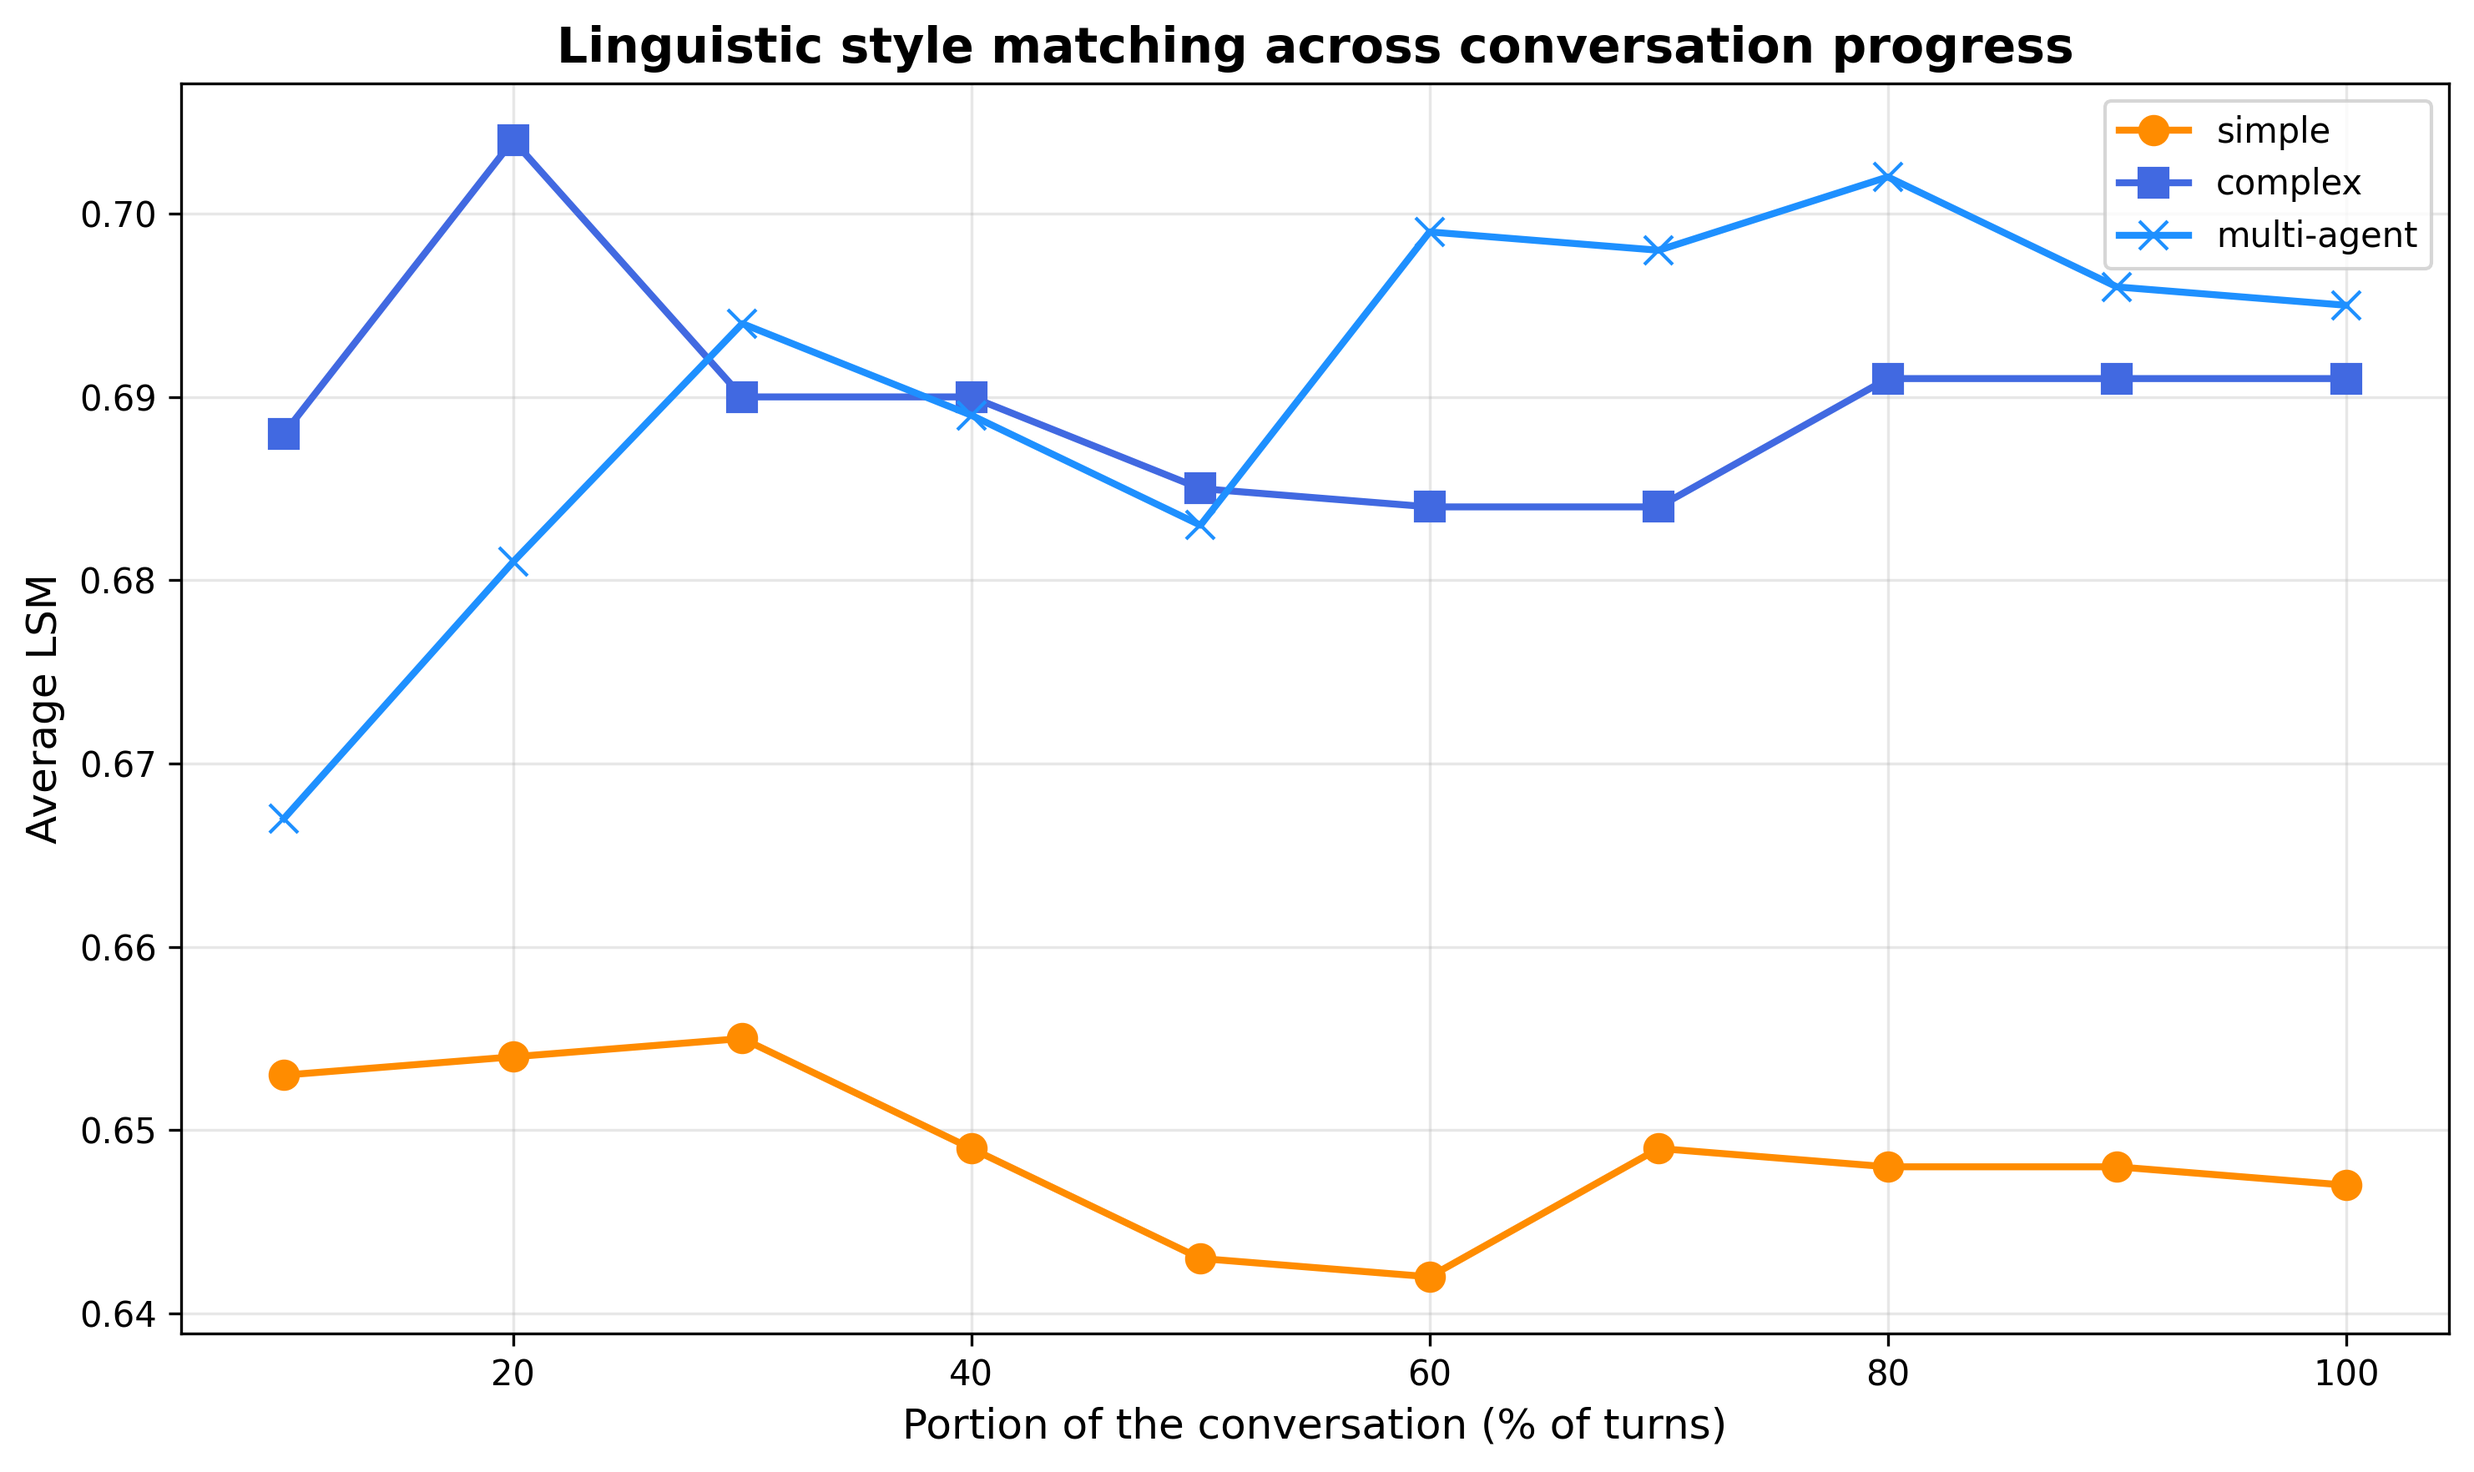
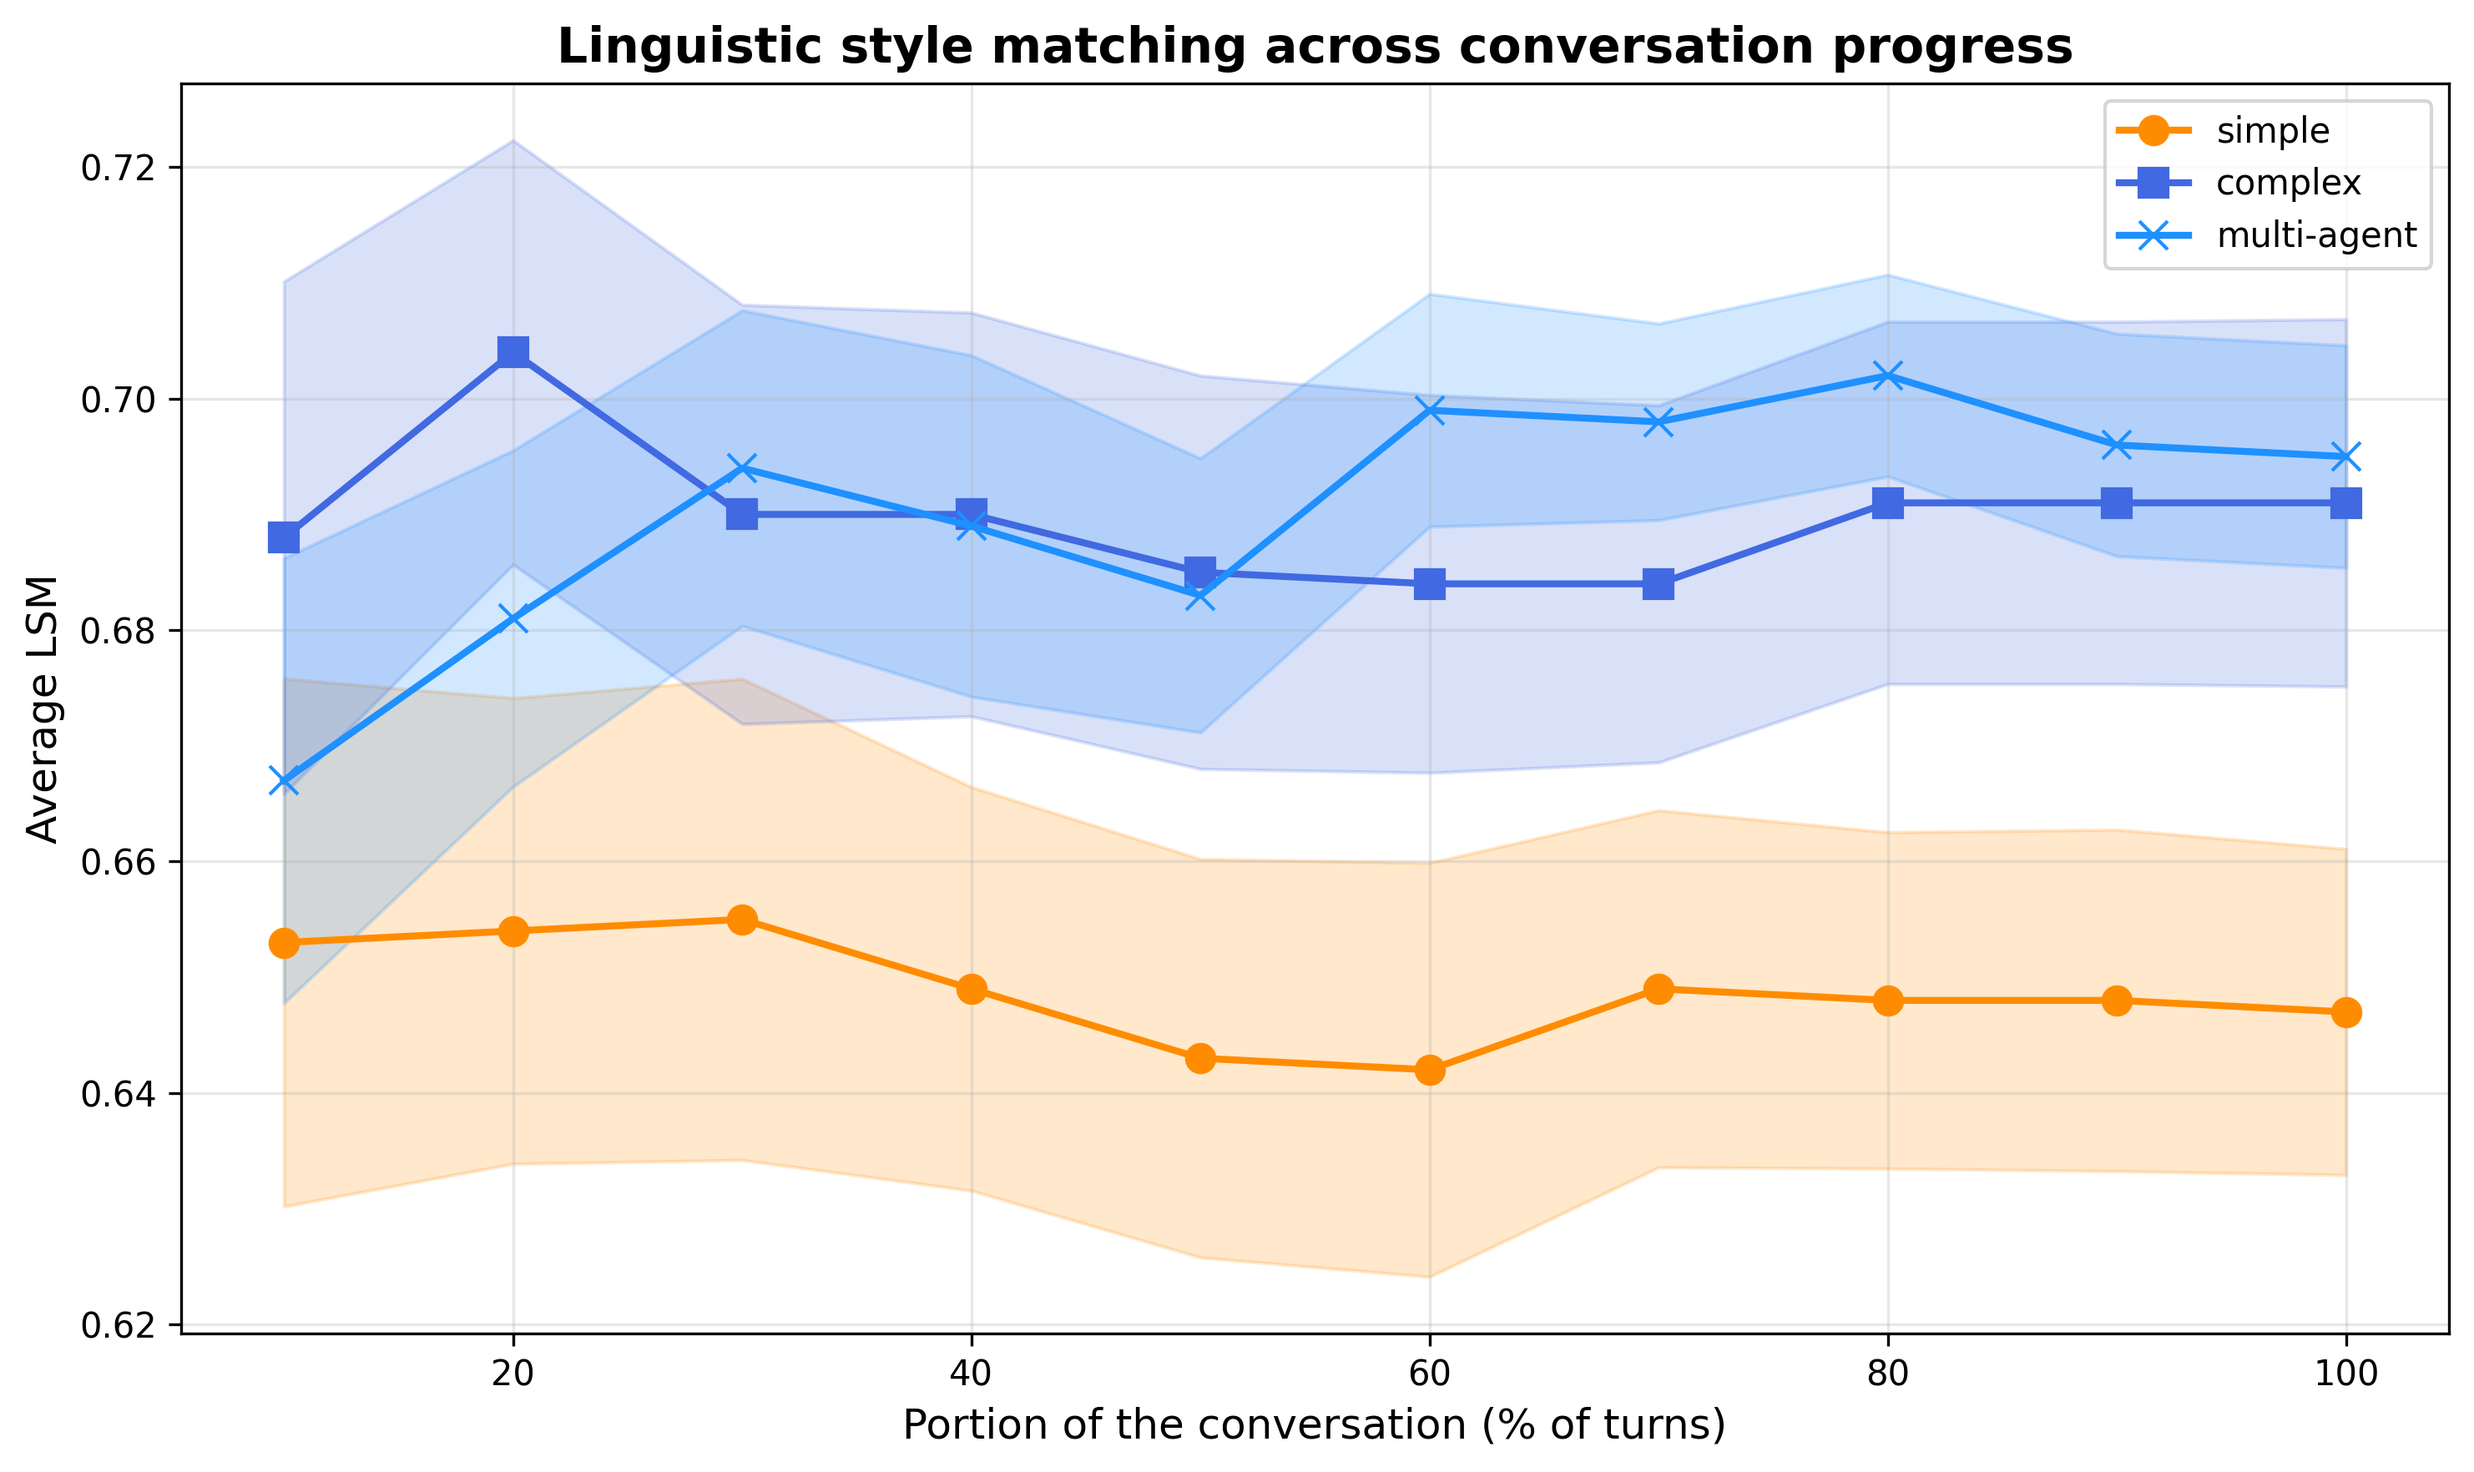
Update plots

diff --git a/Eval/plot_metrics.py b/Eval/plot_metrics.py
@@ -126,7 +126,7 @@ def convert_lsm_turn_to_percentage(df):
 
 
 def plot_counselor_words(data):
-    """Plot 1: Average words per turn by counselors."""
+    """Plot 1: Average words per turn by counselors with standard error shading."""
     fig, ax = plt.subplots(figsize=(10, 6))
     
     for mode in ['simple', 'complex', 'multi_agent']:
@@ -134,6 +134,17 @@ def plot_counselor_words(data):
             df = data[mode].copy()
             df = convert_turn_to_percentage(df)
             
+            # Calculate standard error if std and count columns exist
+            if 'Counselor_Acc_Std' in df.columns and 'Count' in df.columns:
+                se = df['Counselor_Acc_Std'] / np.sqrt(df['Count'])
+                lower = df['Counselor_Acc_Avg'] - se
+                upper = df['Counselor_Acc_Avg'] + se
+                
+                # Plot shaded standard error region
+                ax.fill_between(df['Percent'], lower, upper, 
+                               color=COLORS[mode], alpha=0.2)
+            
+            # Plot line
             ax.plot(
                 df['Percent'],
                 df['Counselor_Acc_Avg'],
@@ -157,7 +168,7 @@ def plot_counselor_words(data):
 
 
 def plot_client_words(data):
-    """Plot 2: Average words per turn by clients."""
+    """Plot 2: Average words per turn by clients with standard error bars at each point."""
     fig, ax = plt.subplots(figsize=(10, 6))
     
     for mode in ['simple', 'complex', 'multi_agent']:
@@ -165,6 +176,17 @@ def plot_client_words(data):
             df = data[mode].copy()
             df = convert_turn_to_percentage(df)
             
+            # Calculate standard error if std and count columns exist
+            if 'Client_Acc_Std' in df.columns and 'Count' in df.columns:
+                se = df['Client_Acc_Std'] / np.sqrt(df['Count'])
+                lower = df['Client_Acc_Avg'] - se
+                upper = df['Client_Acc_Avg'] + se
+                
+                # Plot shaded standard error region
+                ax.fill_between(df['Percent'], lower, upper, 
+                               color=COLORS[mode], alpha=0.2)
+            
+            # Plot line
             ax.plot(
                 df['Percent'],
                 df['Client_Acc_Avg'],
@@ -188,7 +210,7 @@ def plot_client_words(data):
 
 
 def plot_word_ratio(data):
-    """Plot 3: Word ratio between counselors and clients."""
+    """Plot 3: Word ratio between counselors and clients with standard error shading."""
     fig, ax = plt.subplots(figsize=(10, 6))
     
     for mode in ['simple', 'complex', 'multi_agent']:
@@ -196,6 +218,17 @@ def plot_word_ratio(data):
             df = data[mode].copy()
             df = convert_turn_to_percentage(df)
             
+            # Calculate standard error if std and count columns exist
+            if 'Acc_Ratio_Std' in df.columns and 'Count' in df.columns:
+                se = df['Acc_Ratio_Std'] / np.sqrt(df['Count'])
+                lower = df['Acc_Ratio'] - se
+                upper = df['Acc_Ratio'] + se
+                
+                # Plot shaded standard error region
+                ax.fill_between(df['Percent'], lower, upper, 
+                               color=COLORS[mode], alpha=0.2)
+            
+            # Plot line
             ax.plot(
                 df['Percent'],
                 df['Acc_Ratio'],
@@ -302,7 +335,7 @@ def plot_sentiment_distribution(sentiment_df):
 
 
 def plot_positive_sentiment_over_time(sentiment_df):
-    """Plot 5: Distribution of positive sentiment over 20% splits of the conversation."""
+    """Plot 5: Distribution of positive sentiment over 20% splits of the conversation with standard error bars."""
     if sentiment_df is None or sentiment_df.empty:
         print("Warning: No sentiment data available for positive sentiment over time plot")
         return None
@@ -317,7 +350,7 @@ def plot_positive_sentiment_over_time(sentiment_df):
     }
     
     # Collect data for each mode and split
-    results = {mode: {'splits': [], 'means': [], 'stds': []} 
+    results = {mode: {'splits': [], 'means': [], 'ses': []}  # Changed 'stds' to 'ses'
                for mode in ['simple', 'complex', 'multi_agent']}
     
     for percent, turn_num in splits.items():
@@ -327,9 +360,14 @@ def plot_positive_sentiment_over_time(sentiment_df):
             mode_split_data = split_data[split_data['therapist_mode'] == mode]
             if not mode_split_data.empty:
                 prop_pos_values = mode_split_data['prop_pos'].values
+                mean_val = prop_pos_values.mean()
+                std_val = prop_pos_values.std()
+                count = len(prop_pos_values)
+                se = std_val / np.sqrt(count) if count > 0 else 0  # Calculate standard error
+                
                 results[mode]['splits'].append(percent)
-                results[mode]['means'].append(prop_pos_values.mean())
-                results[mode]['stds'].append(prop_pos_values.std())
+                results[mode]['means'].append(mean_val)
+                results[mode]['ses'].append(se)
     
     fig, ax = plt.subplots(figsize=(10, 6))
     
@@ -339,14 +377,14 @@ def plot_positive_sentiment_over_time(sentiment_df):
     for i, mode in enumerate(['simple', 'complex', 'multi_agent']):
         if results[mode]['splits']:
             means = np.array(results[mode]['means'])
-            stds = np.array(results[mode]['stds'])
+            ses = np.array(results[mode]['ses'])  # Changed from 'stds' to 'ses'
             splits = np.array(results[mode]['splits'])
             
             # Adjust x position for grouped bars
             offset = (i - 1) * width
             x_pos_adjusted = x_pos + offset
             
-            ax.bar(x_pos_adjusted, means, width, yerr=stds, 
+            ax.bar(x_pos_adjusted, means, width, yerr=ses, 
                    label=MODE_LABELS.get(mode, mode),
                    color=COLORS[mode], alpha=0.7, capsize=5)
     
@@ -364,7 +402,7 @@ def plot_positive_sentiment_over_time(sentiment_df):
 
 
 def plot_lsm_over_time(lsm_data):
-    """Plot 6: Linguistic style matching across conversation progress."""
+    """Plot 6: Linguistic style matching across conversation progress with standard error shading."""
     if not lsm_data:
         print("Warning: No LSM data available for LSM plot")
         return None
@@ -375,7 +413,18 @@ def plot_lsm_over_time(lsm_data):
         if mode in lsm_data:
             df = lsm_data[mode].copy()
             df = convert_lsm_turn_to_percentage(df)
+            
+            # Calculate standard error if std and count columns exist
+            if 'std_lsm' in df.columns and 'count' in df.columns:
+                se = df['std_lsm'] / np.sqrt(df['count'])
+                lower = df['avg_lsm'] - se
+                upper = df['avg_lsm'] + se
+                
+                # Plot shaded standard error region
+                ax.fill_between(df['Percent'], lower, upper, 
+                               color=COLORS[mode], alpha=0.2)
 
+            # Plot line
             ax.plot(
                 df['Percent'],
                 df['avg_lsm'],
@@ -399,7 +448,7 @@ def plot_lsm_over_time(lsm_data):
 
 
 def plot_feedback_scores(feedback_df):
-    """Plot feedback scores by criterion and therapist mode - bar chart with error bars."""
+    """Plot feedback scores by criterion and therapist mode - bar chart with standard error bars."""
     if feedback_df is None or feedback_df.empty:
         print("Warning: No feedback data available for feedback scores plot")
         return None
@@ -428,19 +477,24 @@ def plot_feedback_scores(feedback_df):
     for mode in modes:
         plot_data[mode] = {
             'means': [],
-            'stds': [],
+            'ses': [],  # Changed from 'stds' to 'ses' for standard errors
             'counts': []
         }
         mode_data = grouped[grouped['therapist_mode'] == mode]
         for criterion in criteria_order:
             criterion_data = mode_data[mode_data['criterion'] == criterion]
             if not criterion_data.empty:
-                plot_data[mode]['means'].append(criterion_data['mean'].iloc[0])
-                plot_data[mode]['stds'].append(criterion_data['std'].iloc[0])
-                plot_data[mode]['counts'].append(int(criterion_data['count'].iloc[0]))
+                mean = criterion_data['mean'].iloc[0]
+                std = criterion_data['std'].iloc[0]
+                count = int(criterion_data['count'].iloc[0])
+                se = std / np.sqrt(count) if count > 0 else 0  # Calculate standard error
+                
+                plot_data[mode]['means'].append(mean)
+                plot_data[mode]['ses'].append(se)
+                plot_data[mode]['counts'].append(count)
             else:
                 plot_data[mode]['means'].append(0)
-                plot_data[mode]['stds'].append(0)
+                plot_data[mode]['ses'].append(0)
                 plot_data[mode]['counts'].append(0)
     
     # Create figure
@@ -455,9 +509,9 @@ def plot_feedback_scores(feedback_df):
     # Plot bars for each mode
     for i, mode in enumerate(modes):
         means = np.array(plot_data[mode]['means'])
-        stds = np.array(plot_data[mode]['stds'])
+        ses = np.array(plot_data[mode]['ses'])  # Changed from 'stds' to 'ses'
         offset = (i - 1) * width  # Center the bars
-        bars = ax.bar(x + offset, means, width, yerr=stds, 
+        bars = ax.bar(x + offset, means, width, yerr=ses, 
                      label=MODE_LABELS.get(mode, mode),
                      color=COLORS[mode], alpha=0.7, capsize=5)
     
